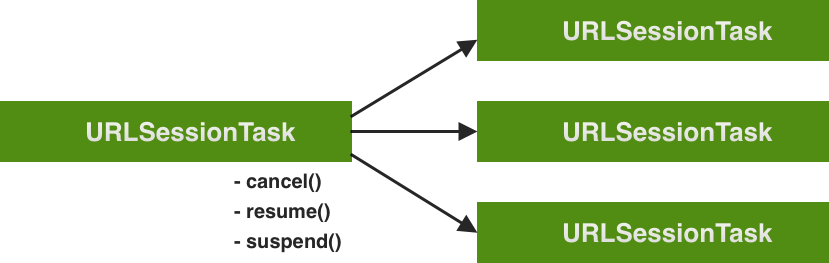
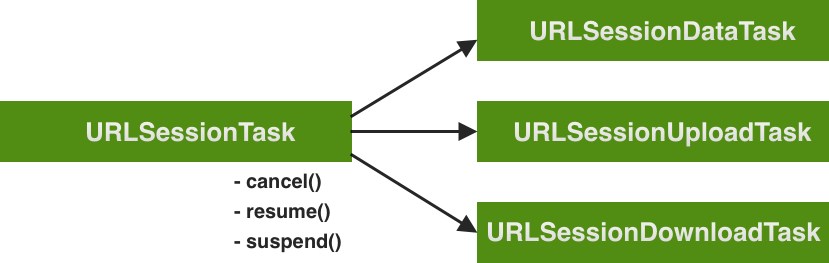
more L08 edits; added more to L07

Changed region(s): [[0.573, 0.8213, 0.9952, 0.943], [0.6031, 0.4563, 0.9952, 0.5475], [0.6333, 0.0608, 0.965, 0.1521]]

diff --git a/Lessons/Lesson7/Lesson7.md b/Lessons/Lesson7/Lesson7.md
@@ -9,7 +9,9 @@
 
 
 ## Why you should know this
-Nearly every professional-level iOS app communicates at some point with an Internet component such as a remote web service. Fetching and processing data between an app and a web service is an essential skill that all iOS developers must master.
+Nearly every serious iOS app communicates at some point with an Internet component such as a remote web service.
+
+Fetching and processing data between an app and a web service is an essential skill that all iOS developers must master.
 
 And the most commonly-used protocol for communicating with web servers is **HTTP** (and its secure counterpart, HTTPS).
 
@@ -36,9 +38,8 @@ At the end of this class, you should be able to...
 
 ### Structured Sharing Exercise - Part 1
 
-By the end of class, write down your **three** (3) most important responses for each of the question sheets passed out.
+By the end of class, write down your **three (3) most important** responses for each of the question sheets passed out.
 
-<br />
 
 ## Initial Exercise (10 min)
 
@@ -110,7 +111,6 @@ URLSessionConfiguration objects come in 3 flavors:
 2. **.ephemeral** - Similar to `.default`, but all session-related data is stored in memory and will be gone once the session terminates.
 3. **.background** -  Allows the session to perform upload or download tasks in the background, even if the app is suspended.
 
-</br>
 Here is a simple example of a declaration of a `URLSession` instance using the `.default` `URLSessionConfiguration` type:
 
 ``` Swift
@@ -119,16 +119,18 @@ let defaultSession = URLSession(configuration: .default)
 
 ### URLSessionTask
 
-To do the real work of fetching data or downloading/uploading files, a session creates one or more tasks.
+To do the real work of fetching data or downloading/uploading files, a session creates one or more *tasks.*
 
-URLSessionTask is the abstract class which contains predefined network task behaviors.
+`URLSessionTask` is the *abstract class* which contains predefined network task behaviors.
 
 #### Three types:
-The 3 concrete subclasses of URLSession class which you will employ most often are:
+The three concrete subclasses of URLSessionTask which you will employ most often are:
 
-- [ ] **URLSessionDataTask** - Intended for short, often interactive requests to servers such as fetching data by sending HTTP requests (GET, POST, etc). Data tasks send and receive data using NSData objects.
+1. **URLSessionDataTask** - Intended for short, often interactive requests to servers such as fetching data by sending HTTP requests (GET, POST, etc). Data tasks send and receive data using NSData objects.
 2. **URLSessionUploadTask** - Similar to data tasks, but also send data (such as a file) from disk to web service, and they support background uploads while the app is no longer running.
 3. **URLSessionDownloadTask** - Data from a remote service is retrieved in the form of a file and stored in a temporary location. Supports background downloads and uploads while the isn't running.
+
+*This diagram illustrates the relationship between the abstract parent class, URLSessionTask and its three concrete implementations, as well as a few of the functions inherited from URLSessionTask:*
 
 ![syntax](assets/urlsessiontask_with_subclasses.png) </br>
 
